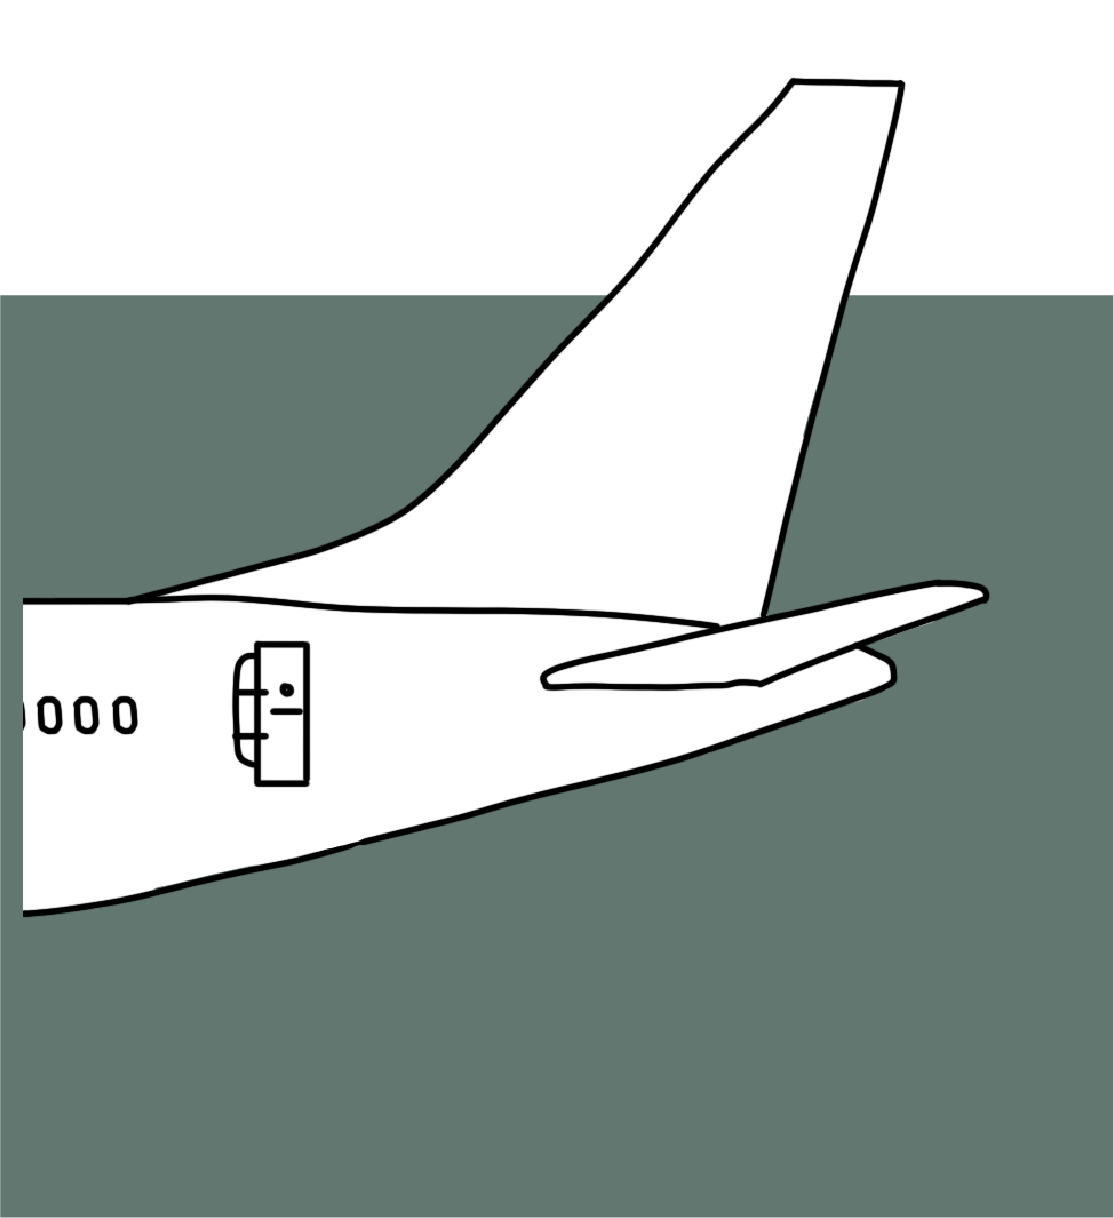
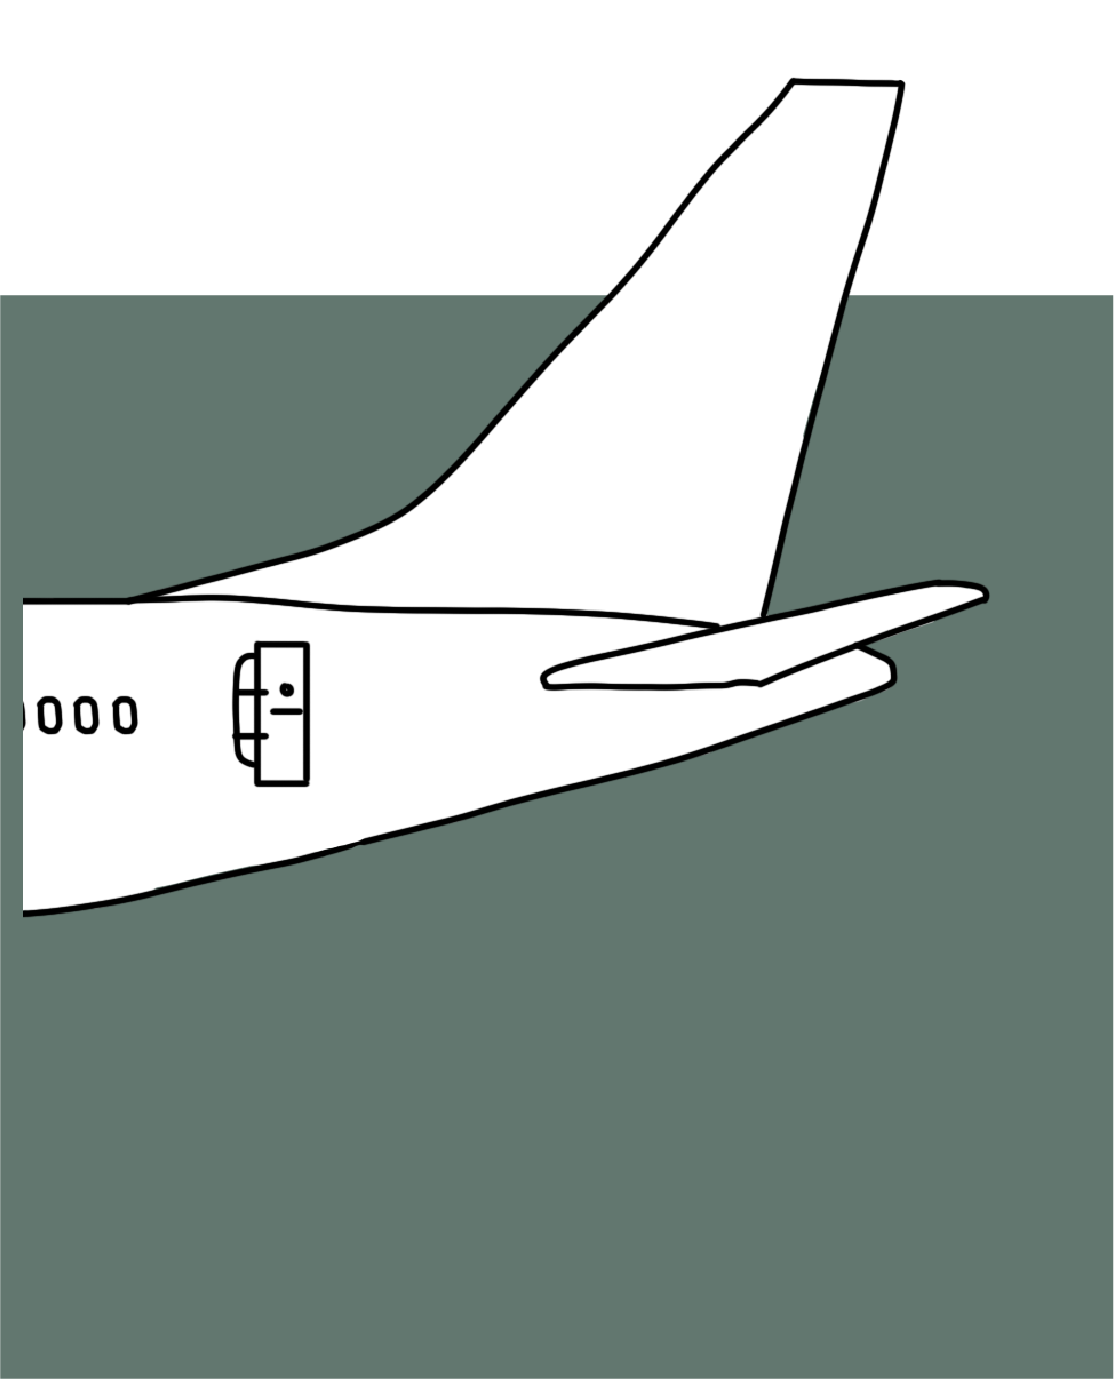
changing img planes

Changed region(s): [[0.0, 0.0312, 1.0, 0.7488], [0.0, 0.9984, 1.0, 1.0]]

diff --git a/src/styles/app.scss b/src/styles/app.scss
@@ -373,20 +373,24 @@ p{
     }
 
     .section--imgline{
-        display: flex;
+        display: grid;
         justify-content: center;
+        font-size: 0;
     }
     .img--avion1{
-        grid-column: 1/3;
+        grid-column: 1/2;
         width: 100%;
+        grid-row: 1/-1;
     }
     .img--avion2{
-        grid-column: 3/5;
+        grid-column: 3/4;
         width: 100%;
+        grid-row: 1/-1;
     }
     .img--avion3{
-        grid-column: 5/-1;
+        grid-column: 4/5;
         width: 100%;
+        grid-row: 1/-1;
     }
     .img--repartition{
         grid-column: 1/4;
@@ -454,11 +458,4 @@ p{
         padding-right: 60px;
     }
 
-    .gridcol {
-        grid-template-columns: repeat(6, 1fr);
-        grid-template-rows: repeat(10, auto);
-        column-gap: 20px;
-        padding-left: 40px;
-        padding-right: 40px;
-    }
 }

diff --git a/src/index.html b/src/index.html
@@ -72,7 +72,7 @@
             <p class="p p--col1col6">Avant de passer au code, Nicolas a pris la décision de refaire un figma, mais cette fois avec les couleurs et les détails. Ce Figma nous a permis de voir à quoi notre site allait ressembler une fois qu’il serait terminé.</p>
 
         </section>
-        <section class="section--imgline gridrow6 animate-on-scroll">
+        <section class="section--imgline animate-on-scroll">
             <img class="img--avion1 img--pos" src="assets/images/737_1.png" srcset="assets/images/@2x/ 2x" alt="">
             <img class="img--avion2 img--pos" src="assets/images/737_2.png" srcset="assets/images/@2x/ 2x" alt="">
             <img class="img--avion3 img--pos" src="assets/images/737_3.png" srcset="assets/images/@2x/ 2x" alt="">
